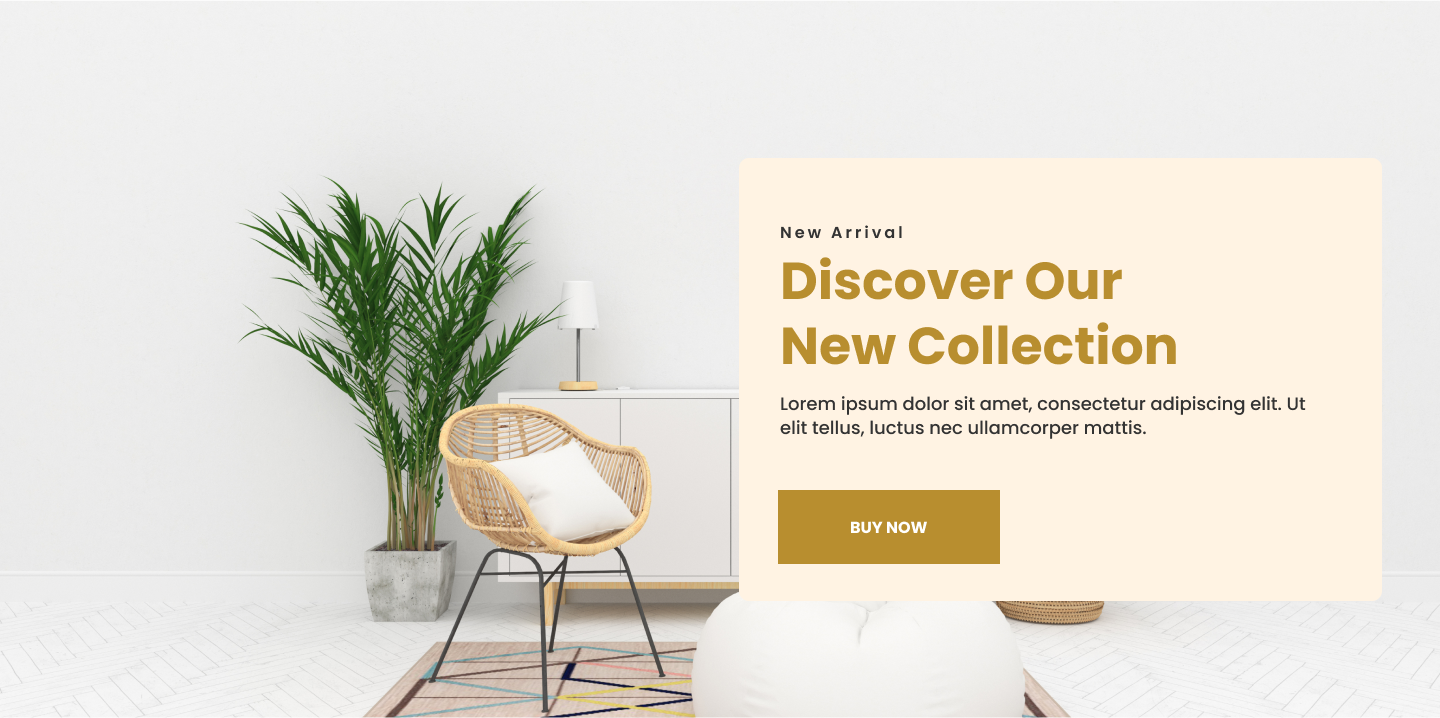
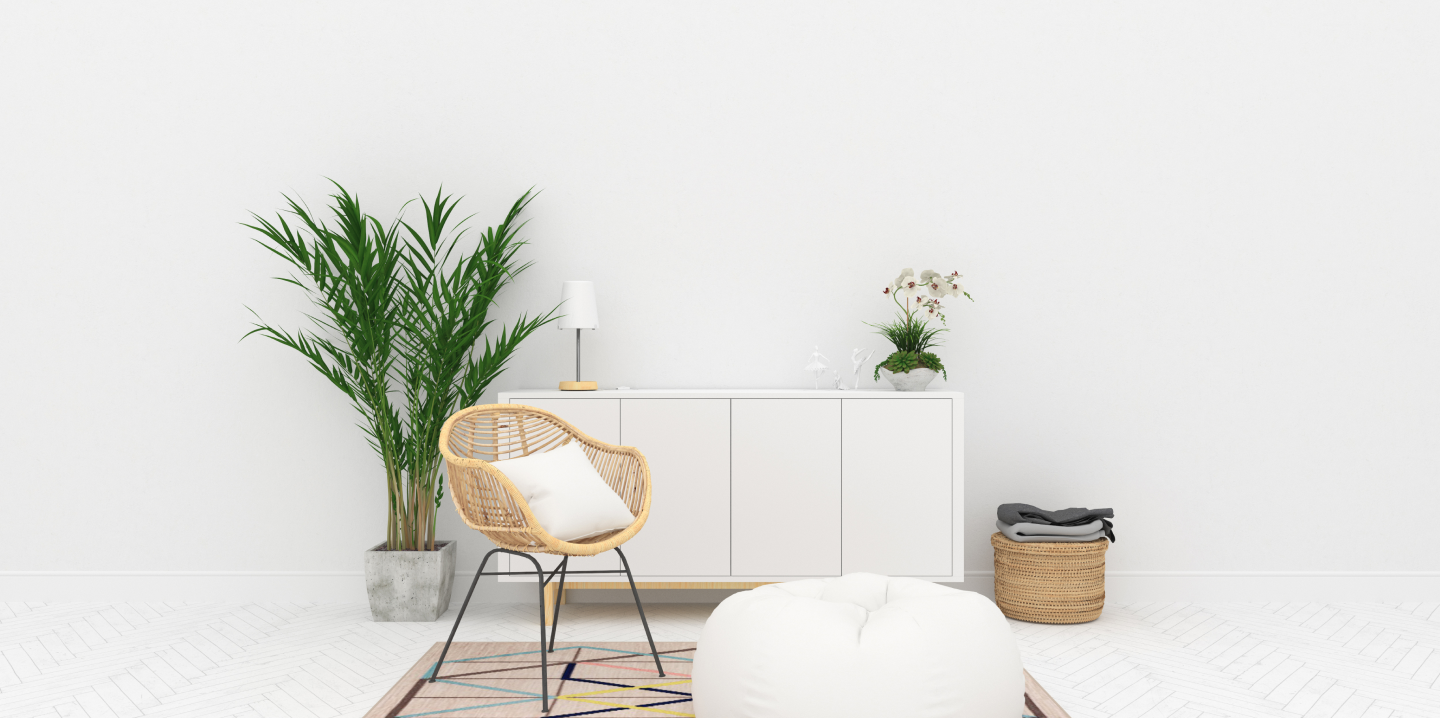
final

Changed region(s): [[0.5, 0.3677, 0.9062, 0.8579], [0.5312, 0.3064, 0.625, 0.337]]

diff --git a/Componentes/vite-project/src/components/Footer/index.jsx b/Componentes/vite-project/src/components/Footer/index.jsx
@@ -2,41 +2,49 @@ import './Footer.css';
 
 const Footer = () => {
     return (
-        <div className='footer'>
-            <div className='footer-col1'>
-                <h3>Furniro.</h3>
+        <div>
+            <div className='footer'>
+                <div className='footer-col1'>
+                    <h3>Furniro.</h3>
 
-                <p>400 University Drive Suite 200 Coral <br/>Gables,<br/> FL 33134 USA</p>
+                    <p>400 University Drive Suite 200 Coral <br/>Gables,<br/> FL 33134 USA</p>
+                </div>
+
+                <div className='footer-col2'>
+                    <h4>Links</h4>
+
+                    <p>Home</p>
+                    <p>Shop</p>
+                    <p>About</p>
+                    <p>Contact</p>
+                </div>
+
+                <div className='footer-col3'>
+                    <h4>Help</h4>
+
+                    <p>Payment options</p>
+                    <p>Returns</p>
+                    <p>Privacy policies</p>
+                    <p>Contact</p>
+                </div>
+
+                <div className='footer-col4'>
+                    <h4>Newsletter</h4>
+
+                    <div className='footer-newsletter'>
+                        <input placeholder='Enter your email address' />
+
+                        <a>SUBSCRIBE</a>
+                    </div>      
+                </div>
             </div>
 
-            <div className='footer-col2'>
-                <h4>Links</h4>
-
-                <p>Home</p>
-                <p>Shop</p>
-                <p>About</p>
-                <p>Contact</p>
-            </div>
-
-            <div className='footer-col3'>
-                <h4>Help</h4>
-
-                <p>Payment options</p>
-                <p>Returns</p>
-                <p>Privacy policies</p>
-                <p>Contact</p>
-            </div>
-
-            <div className='footer-col4'>
-                <h4>Newsletter</h4>
-
-                <div className='footer-newsletter'>
-                    <input placeholder='Enter your email address' />
-
-                    <a>SUBSCRIBE</a>
-                </div>      
+            <div className='footer-final'>
+                <hr></hr>
+                <p>2023 furino. All rights reverved</p>
             </div>
         </div>
+        
     );
 }
 

diff --git a/Componentes/vite-project/src/components/Explore/index.jsx b/Componentes/vite-project/src/components/Explore/index.jsx
@@ -2,22 +2,27 @@ import './Explore.css';
 
 const Explore = () => {
     return (
-        <div className='explore'>
-            <div className='explore-text'>
-                <div>
-                    <h1>50+ Beautiful rooms inspiration</h1>
-                    <p>Our designer already made a lot of beautiful prototipe of rooms that inspire you</p>
+        <div>
+            <div className='explore'>
+                <div className='explore-text'>
+                    <div>
+                        <h1>50+ Beautiful rooms inspiration</h1>
+                        <p>Our designer already made a lot of beautiful prototipe of rooms that inspire you</p>
+                    </div>
+                    <div><a href='#'>Explore more</a></div>
                 </div>
-                <div><a href='#'>Explore more</a></div>
-            </div>
 
-            <div className='explore-imgs'>
-                <img className='explore-img1' src='./imgs/bedroom2.png'/>
-                <img className='explore-img2' src='./imgs/casa.png' />
+                <div className='explore-imgs'>
+                    <img className='explore-img1' src='./imgs/bedroom2.png'/>
+                    <img className='explore-img2' src='./imgs/casa.png' />  
+                </div>
             </div>
-
+{/* 
+            <div className='explore-bts'>
+                <img src='./imgs/buttons.png' />
+            </div> */}
         </div>
+        
     );
 }
-
 export default Explore;

diff --git a/Componentes/vite-project/src/components/Quality/index.jsx b/Componentes/vite-project/src/components/Quality/index.jsx
@@ -1,0 +1,42 @@
+import './Quality.css';
+
+const Quality = () => {
+    return (
+        <div className='quality'>
+            <div className='quality-card'>
+                <img src='./imgs/trophy.png' />
+                <div>
+                    <h3>High Quality</h3>
+                    <p>crafted from top materials</p>
+                </div>
+            </div>
+
+            <div className='quality-card'>
+                <img src='./imgs/guarantee.png' />
+                <div>
+                    <h3>Warranty Protection</h3>
+                    <p>Over 2 years</p>
+                </div>
+            </div>
+
+            <div className='quality-card'>
+                <img src='./imgs/shipping.png' />
+                <div>
+                    <h3>Free Shipping</h3>
+                    <p>Order over 150 $</p>
+                </div>
+            </div>
+
+            <div className='quality-card'>
+                <img src='./imgs/customer-support.png' />
+                <div>
+                    <h3>24 / 7 Support</h3>
+                    <p>Dedicated support</p>
+                </div>
+            </div>
+
+        </div>
+    );
+}
+
+export default Quality;

diff --git a/Componentes/vite-project/src/components/Entry/Entry.css b/Componentes/vite-project/src/components/Entry/Entry.css
@@ -1,0 +1,54 @@
+@import url('https://fonts.googleapis.com/css2?family=Poppins:wght@300;400;500;600;700;800&display=swap');
+
+.entry {
+    background-image: url('./imgs/capa.png');
+    width: full;
+    height: 718px;
+    display: flex;
+    flex-direction: column;
+    justify-content: center;
+    align-items: flex-end;
+    padding-right: 80px;
+}
+
+.entry-banner {
+    display: flex;
+    flex-direction: column;
+    justify-content: flex-start;
+    gap: 30px;
+    padding: 55px 30px;
+    background-color: #FFF3E3;
+    font-family: 'Poppins';
+    width: 470px;
+    
+}
+.entry-banner h5 {
+    font-weight: 600;
+    letter-spacing: 2px;
+    color: #333;
+    font-size: 13px;
+}
+.entry-banner h1 {
+    font-weight: 700;
+    font-size: 45px;
+    color: #B88E2F;
+    line-height: 55px;
+}
+.entry-banner p {
+    font-size: 16px;
+    font-weight: 500;
+}
+.entry-banner a {
+    width: 30%;
+    background-color: #B88E2F;
+    padding: 20px;
+    text-align: center;
+    color: #FFF3E3;
+    font-weight: 600;
+}
+
+.entry-banner-text {
+    display: flex;
+    flex-direction: column;
+    gap: 10px;
+}

diff --git a/Componentes/vite-project/src/App.jsx b/Componentes/vite-project/src/App.jsx
@@ -3,6 +3,8 @@ import SectionCards from './components/SectionCards';
 import ProductsRow from './components/ProductsRow';
 import Explore from './components/Explore';
 import Footer from './components/Footer';
+import Quality from './components/Quality';
+import Entry from './components/Entry';
 
 import "./App.css"
 
@@ -11,7 +13,8 @@ const App = () => {
   return (
     <div className='body'>
       <Header/>
-      <img className='imagem-capa' src='./public/imgs/capa.png' />
+      
+      <Entry/>
 
       <SectionCards />
 
@@ -71,6 +74,8 @@ const App = () => {
       <div className='bt-bottom'><a href="#" className='bt-show-more'>Show more</a></div>
 
       <Explore/>
+
+      <Quality/>
 
       <Footer />
 

diff --git a/Componentes/vite-project/src/components/Entry/index.jsx b/Componentes/vite-project/src/components/Entry/index.jsx
@@ -1,0 +1,19 @@
+import './Entry.css';
+
+const Entry = () => {
+    return (
+        <div className='entry'>  
+            <div className='entry-banner'>
+                <div className='entry-banner-text'>
+                    <h5>New Arrival</h5>
+                    <h1>Discover Our <br/>New Collection</h1>
+                    <p>Lorem ipsum dolor sit amet, consectetur adipiscing elit. Ut elit tellus, luctus nec ullamcorper mattis.</p>
+                </div>
+
+                <a>BUY NOW</a>
+            </div>
+        </div>
+    );
+}
+
+export default Entry;

diff --git a/Componentes/vite-project/src/components/Footer/Footer.css b/Componentes/vite-project/src/components/Footer/Footer.css
@@ -38,3 +38,28 @@ h4 {
     text-decoration: underline;
     text-underline-offset: 5px;
 }
+.footer-newsletter input {
+    border: none;
+    border-bottom: 1.5px solid #3a3a3a;
+    padding: 3.5px;
+}
+.footer-newsletter input::placeholder {
+    color: #9f9f9f;
+}
+
+.footer-final {
+    display: flex;
+    flex-direction: column;
+    margin: 0;
+    padding: 20px 100px;
+    font-size: 14px;
+    font-family: 'Poppins';
+    gap: 25px;
+}
+.footer-final p {
+    font-weight: 500;
+}
+
+hr {
+    border-top: 1px solid #d9d9d9;
+}

diff --git a/Componentes/vite-project/src/components/Quality/Quality.css b/Componentes/vite-project/src/components/Quality/Quality.css
@@ -1,0 +1,26 @@
+@import url('https://fonts.googleapis.com/css2?family=Poppins:wght@300;400;500;600;700;800&display=swap');
+
+.quality {
+    background-color: #FAF3EA;
+    display: flex;
+    flex-direction: row;
+    justify-content: space-around;
+    padding: 80px 0;
+    font-family: 'Poppins';
+}
+.quality h3 {
+    font-size: 15px;
+}
+.quality p {
+    font-size: 10px;
+}
+
+.quality-card {
+    display: flex;
+    flex-direction: row;
+    gap: 10px;
+}
+.quality-card img {
+    width: 40px;
+    height: 40px;
+}

diff --git a/Componentes/vite-project/src/components/Header/Header.css b/Componentes/vite-project/src/components/Header/Header.css
@@ -6,7 +6,7 @@
     flex-direction: row;
     justify-content: space-between;
     align-items: center;
-    padding: 25px;
+    padding: 20px;
     height: 60px;
     background-color: #fff;
     box-shadow: 0 0 10px rgba(0, 0, 0, 0.1);
@@ -35,4 +35,7 @@
 .section-icons {
     display: flex;
     gap: 30px;
+}
+.section-icons img {
+    width: 85%;
 }

diff --git a/Componentes/vite-project/src/App.css b/Componentes/vite-project/src/App.css
@@ -5,10 +5,6 @@
   padding: 0;
 }
 
-.imagem-capa{
-  width: 100%;
-}
-
 .tittle-products {
   font-family: 'Poppins';
   display: flex;
@@ -24,7 +20,7 @@
   color: #B88E2F;
   font-size: 16px;
   text-decoration: none;
-  padding: 5px 30px;  
+  padding: 5px 40px;  
   text-align: center;
 }
 .bt-bottom {

diff --git a/Componentes/vite-project/index.html b/Componentes/vite-project/index.html
@@ -2,7 +2,7 @@
 <html lang="en">
   <head>
     <meta charset="UTF-8" />
-    <link rel="icon" type="image/svg+xml" href="/vite.svg" />
+    <link rel="icon" href="public/imgs/icon.png" />
     <meta name="viewport" content="width=device-width, initial-scale=1.0" />
     <title>Furniro</title>
   </head>

diff --git a/Componentes/vite-project/src/components/Products/Products.css b/Componentes/vite-project/src/components/Products/Products.css
@@ -14,7 +14,7 @@
 
 h3 {
     font-weight: 600;
-    font-size: 24px;
+    font-size: 20px;
 }
 h4 {
     font-weight: 500;
@@ -23,7 +23,7 @@ h4 {
 }
 p {
     font-weight: 600;
-    font-size: 15px;
+    font-size: 10px;
 }
 .price {
     display: flex;
